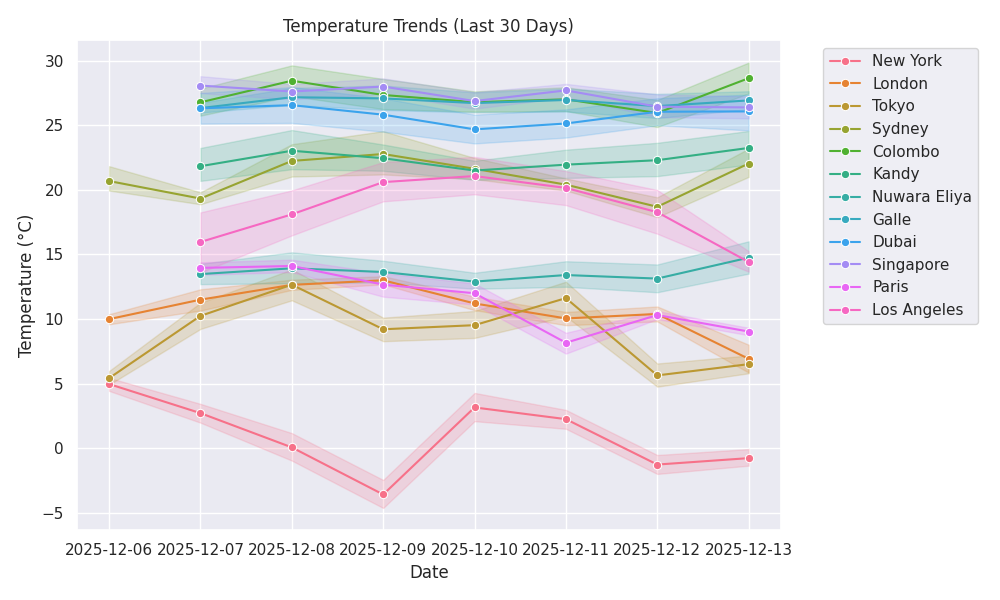
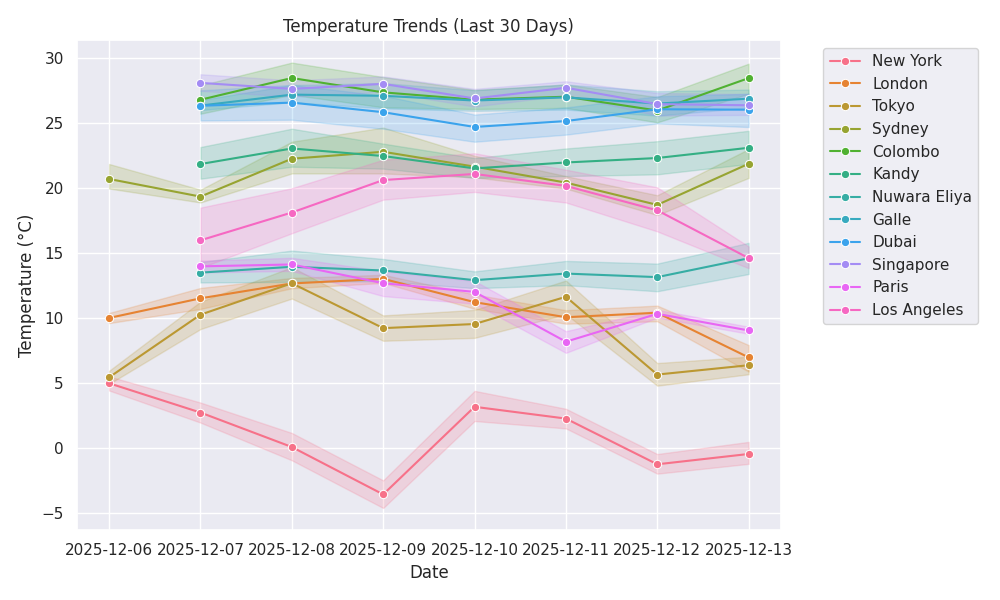
🌦 Weather update: 2025-12-13 18:17

diff --git a/public/index.html b/public/index.html
@@ -11,7 +11,7 @@
     <div class="max-w-6xl mx-auto">
         <header class="mb-8 text-center">
             <h1 class="text-4xl font-bold mb-2">🌍 Global Weather Dashboard</h1>
-            <p class="text-slate-400">Last Updated: 2025-12-13 17:11:00</p>
+            <p class="text-slate-400">Last Updated: 2025-12-13 18:17:11</p>
         </header>
         
         <!-- AI Summary -->
@@ -29,12 +29,12 @@
                     <span class="text-3xl">🌫</span>
                 </div>
                 <div class="mt-4">
-                    <p class="text-4xl font-bold">8.85°C</p>
+                    <p class="text-4xl font-bold">9.0°C</p>
                     <p class="text-slate-400 capitalize">mist</p>
                 </div>
                 <div class="mt-4 text-sm text-slate-500">
-                    <p>💧 Humidity: 97%</p>
-                    <p>💨 Wind: 2.57 m/s</p>
+                    <p>💧 Humidity: 95%</p>
+                    <p>💨 Wind: 1.54 m/s</p>
                 </div>
             </div>
             
@@ -44,12 +44,12 @@
                     <span class="text-3xl">☁</span>
                 </div>
                 <div class="mt-4">
-                    <p class="text-4xl font-bold">8.07°C</p>
+                    <p class="text-4xl font-bold">7.55°C</p>
                     <p class="text-slate-400 capitalize">broken clouds</p>
                 </div>
                 <div class="mt-4 text-sm text-slate-500">
-                    <p>💧 Humidity: 83%</p>
-                    <p>💨 Wind: 2.06 m/s</p>
+                    <p>💧 Humidity: 87%</p>
+                    <p>💨 Wind: 2.24 m/s</p>
                 </div>
             </div>
             
@@ -59,12 +59,12 @@
                     <span class="text-3xl">🌧</span>
                 </div>
                 <div class="mt-4">
-                    <p class="text-4xl font-bold">18.89°C</p>
+                    <p class="text-4xl font-bold">18.72°C</p>
                     <p class="text-slate-400 capitalize">light rain</p>
                 </div>
                 <div class="mt-4 text-sm text-slate-500">
                     <p>💧 Humidity: 93%</p>
-                    <p>💨 Wind: 3.09 m/s</p>
+                    <p>💨 Wind: 2.57 m/s</p>
                 </div>
             </div>
             
@@ -79,7 +79,7 @@
                 </div>
                 <div class="mt-4 text-sm text-slate-500">
                     <p>💧 Humidity: 86%</p>
-                    <p>💨 Wind: 2.57 m/s</p>
+                    <p>💨 Wind: 3.6 m/s</p>
                 </div>
             </div>
             
@@ -89,12 +89,12 @@
                     <span class="text-3xl">☀</span>
                 </div>
                 <div class="mt-4">
-                    <p class="text-4xl font-bold">26.96°C</p>
+                    <p class="text-4xl font-bold">24.96°C</p>
                     <p class="text-slate-400 capitalize">clear sky</p>
                 </div>
                 <div class="mt-4 text-sm text-slate-500">
-                    <p>💧 Humidity: 50%</p>
-                    <p>💨 Wind: 2.06 m/s</p>
+                    <p>💧 Humidity: 53%</p>
+                    <p>💨 Wind: 3.6 m/s</p>
                 </div>
             </div>
             
@@ -104,12 +104,12 @@
                     <span class="text-3xl">☁</span>
                 </div>
                 <div class="mt-4">
-                    <p class="text-4xl font-bold">11.59°C</p>
+                    <p class="text-4xl font-bold">11.73°C</p>
                     <p class="text-slate-400 capitalize">overcast clouds</p>
                 </div>
                 <div class="mt-4 text-sm text-slate-500">
-                    <p>💧 Humidity: 98%</p>
-                    <p>💨 Wind: 1.45 m/s</p>
+                    <p>💧 Humidity: 97%</p>
+                    <p>💨 Wind: 1.66 m/s</p>
                 </div>
             </div>
             
@@ -120,11 +120,11 @@
                 </div>
                 <div class="mt-4">
                     <p class="text-4xl font-bold">25.72°C</p>
-                    <p class="text-slate-400 capitalize">broken clouds</p>
+                    <p class="text-slate-400 capitalize">overcast clouds</p>
                 </div>
                 <div class="mt-4 text-sm text-slate-500">
                     <p>💧 Humidity: 82%</p>
-                    <p>💨 Wind: 3.41 m/s</p>
+                    <p>💨 Wind: 2.77 m/s</p>
                 </div>
             </div>
             
@@ -134,12 +134,12 @@
                     <span class="text-3xl">☁</span>
                 </div>
                 <div class="mt-4">
-                    <p class="text-4xl font-bold">20.16°C</p>
+                    <p class="text-4xl font-bold">20.31°C</p>
                     <p class="text-slate-400 capitalize">broken clouds</p>
                 </div>
                 <div class="mt-4 text-sm text-slate-500">
                     <p>💧 Humidity: 99%</p>
-                    <p>💨 Wind: 1.81 m/s</p>
+                    <p>💨 Wind: 1.66 m/s</p>
                 </div>
             </div>
             
@@ -149,12 +149,12 @@
                     <span class="text-3xl">☁</span>
                 </div>
                 <div class="mt-4">
-                    <p class="text-4xl font-bold">25.58°C</p>
-                    <p class="text-slate-400 capitalize">few clouds</p>
+                    <p class="text-4xl font-bold">25.02°C</p>
+                    <p class="text-slate-400 capitalize">scattered clouds</p>
                 </div>
                 <div class="mt-4 text-sm text-slate-500">
-                    <p>💧 Humidity: 84%</p>
-                    <p>💨 Wind: 7.98 m/s</p>
+                    <p>💧 Humidity: 86%</p>
+                    <p>💨 Wind: 7.19 m/s</p>
                 </div>
             </div>
             
@@ -164,8 +164,8 @@
                     <span class="text-3xl">☁</span>
                 </div>
                 <div class="mt-4">
-                    <p class="text-4xl font-bold">3.04°C</p>
-                    <p class="text-slate-400 capitalize">overcast clouds</p>
+                    <p class="text-4xl font-bold">4.55°C</p>
+                    <p class="text-slate-400 capitalize">broken clouds</p>
                 </div>
                 <div class="mt-4 text-sm text-slate-500">
                     <p>💧 Humidity: 60%</p>
@@ -176,14 +176,14 @@
             <div class="bg-slate-800 p-6 rounded-xl shadow-lg border-t-4 border-blue-500 hover:scale-105 transition-transform">
                 <div class="flex justify-between items-start">
                     <h3 class="text-xl font-bold">Tokyo</h3>
-                    <span class="text-3xl">🌧</span>
+                    <span class="text-3xl">🌫</span>
                 </div>
                 <div class="mt-4">
-                    <p class="text-4xl font-bold">3.96°C</p>
-                    <p class="text-slate-400 capitalize">light rain</p>
+                    <p class="text-4xl font-bold">3.79°C</p>
+                    <p class="text-slate-400 capitalize">mist</p>
                 </div>
                 <div class="mt-4 text-sm text-slate-500">
-                    <p>💧 Humidity: 85%</p>
+                    <p>💧 Humidity: 91%</p>
                     <p>💨 Wind: 7.2 m/s</p>
                 </div>
             </div>
@@ -194,12 +194,12 @@
                     <span class="text-3xl">🌫</span>
                 </div>
                 <div class="mt-4">
-                    <p class="text-4xl font-bold">12.83°C</p>
+                    <p class="text-4xl font-bold">17.59°C</p>
                     <p class="text-slate-400 capitalize">mist</p>
                 </div>
                 <div class="mt-4 text-sm text-slate-500">
-                    <p>💧 Humidity: 93%</p>
-                    <p>💨 Wind: 1.54 m/s</p>
+                    <p>💧 Humidity: 74%</p>
+                    <p>💨 Wind: 2.06 m/s</p>
                 </div>
             </div>
             

diff --git a/README.md b/README.md
@@ -8,8 +8,8 @@
 
 ---
 
-## ⚡ Live Status (Updated: 2025-12-13 17:11 UTC)
-![Paris](https://img.shields.io/badge/Paris-8.85°C-blue) ![London](https://img.shields.io/badge/London-8.07°C-blue) ![Sydney](https://img.shields.io/badge/Sydney-18.89°C-green) ![Singapore](https://img.shields.io/badge/Singapore-25.83°C-orange) ![Dubai](https://img.shields.io/badge/Dubai-26.96°C-orange) ![Nuwara Eliya](https://img.shields.io/badge/Nuwara%20Eliya-11.59°C-blue) ![Galle](https://img.shields.io/badge/Galle-25.72°C-orange) ![Kandy](https://img.shields.io/badge/Kandy-20.16°C-green) ![Colombo](https://img.shields.io/badge/Colombo-25.58°C-orange) ![New York](https://img.shields.io/badge/New%20York-3.04°C-blue) ![Tokyo](https://img.shields.io/badge/Tokyo-3.96°C-blue) ![Los Angeles](https://img.shields.io/badge/Los%20Angeles-12.83°C-blue) 
+## ⚡ Live Status (Updated: 2025-12-13 18:17 UTC)
+![Paris](https://img.shields.io/badge/Paris-9.0°C-blue) ![London](https://img.shields.io/badge/London-7.55°C-blue) ![Sydney](https://img.shields.io/badge/Sydney-18.72°C-green) ![Singapore](https://img.shields.io/badge/Singapore-25.83°C-orange) ![Dubai](https://img.shields.io/badge/Dubai-24.96°C-green) ![Nuwara Eliya](https://img.shields.io/badge/Nuwara%20Eliya-11.73°C-blue) ![Galle](https://img.shields.io/badge/Galle-25.72°C-orange) ![Kandy](https://img.shields.io/badge/Kandy-20.31°C-green) ![Colombo](https://img.shields.io/badge/Colombo-25.02°C-orange) ![New York](https://img.shields.io/badge/New%20York-4.55°C-blue) ![Tokyo](https://img.shields.io/badge/Tokyo-3.79°C-blue) ![Los Angeles](https://img.shields.io/badge/Los%20Angeles-17.59°C-green) 
 
 <div align="center">
   <h3>🏆 Weather Records (Live)</h3>
@@ -19,8 +19,8 @@
         <td align="center">❄ <b>Coldest City</b></td>
     </tr>
     <tr>
-        <td align="center"><b>Dubai</b><br>26.96°C</td>
-        <td align="center"><b>New York</b><br>3.04°C</td>
+        <td align="center"><b>Singapore</b><br>25.83°C</td>
+        <td align="center"><b>Tokyo</b><br>3.79°C</td>
     </tr>
   </table>
 </div>
@@ -28,18 +28,18 @@
 ## 📊 Global Overview
 | 🌍 City | 🌡 Temp | 🌤 Condition | 💧 Humidity | 🌬 Wind |
 |---|---|---|---|---|
-| **Paris** | 8.85°C | mist | 🟦🟦🟦🟦⬜ 97% | 2.57 m/s |
-| **London** | 8.07°C | broken clouds | 🟦🟦🟦🟦⬜ 83% | 2.06 m/s |
-| **Sydney** | 18.89°C | light rain | 🟦🟦🟦🟦⬜ 93% | 3.09 m/s |
-| **Singapore** | 25.83°C | broken clouds | 🟦🟦🟦🟦⬜ 86% | 2.57 m/s |
-| **Dubai** | 26.96°C | clear sky | 🟦🟦⬜⬜⬜ 50% | 2.06 m/s |
-| **Nuwara Eliya** | 11.59°C | overcast clouds | 🟦🟦🟦🟦⬜ 98% | 1.45 m/s |
-| **Galle** | 25.72°C | broken clouds | 🟦🟦🟦🟦⬜ 82% | 3.41 m/s |
-| **Kandy** | 20.16°C | broken clouds | 🟦🟦🟦🟦⬜ 99% | 1.81 m/s |
-| **Colombo** | 25.58°C | few clouds | 🟦🟦🟦🟦⬜ 84% | 7.98 m/s |
-| **New York** | 3.04°C | overcast clouds | 🟦🟦🟦⬜⬜ 60% | 5.14 m/s |
-| **Tokyo** | 3.96°C | light rain | 🟦🟦🟦🟦⬜ 85% | 7.2 m/s |
-| **Los Angeles** | 12.83°C | mist | 🟦🟦🟦🟦⬜ 93% | 1.54 m/s |
+| **Paris** | 9.0°C | mist | 🟦🟦🟦🟦⬜ 95% | 1.54 m/s |
+| **London** | 7.55°C | broken clouds | 🟦🟦🟦🟦⬜ 87% | 2.24 m/s |
+| **Sydney** | 18.72°C | light rain | 🟦🟦🟦🟦⬜ 93% | 2.57 m/s |
+| **Singapore** | 25.83°C | broken clouds | 🟦🟦🟦🟦⬜ 86% | 3.6 m/s |
+| **Dubai** | 24.96°C | clear sky | 🟦🟦⬜⬜⬜ 53% | 3.6 m/s |
+| **Nuwara Eliya** | 11.73°C | overcast clouds | 🟦🟦🟦🟦⬜ 97% | 1.66 m/s |
+| **Galle** | 25.72°C | overcast clouds | 🟦🟦🟦🟦⬜ 82% | 2.77 m/s |
+| **Kandy** | 20.31°C | broken clouds | 🟦🟦🟦🟦⬜ 99% | 1.66 m/s |
+| **Colombo** | 25.02°C | scattered clouds | 🟦🟦🟦🟦⬜ 86% | 7.19 m/s |
+| **New York** | 4.55°C | broken clouds | 🟦🟦🟦⬜⬜ 60% | 5.14 m/s |
+| **Tokyo** | 3.79°C | mist | 🟦🟦🟦🟦⬜ 91% | 7.2 m/s |
+| **Los Angeles** | 17.59°C | mist | 🟦🟦🟦⬜⬜ 74% | 2.06 m/s |
 
 
 ## 📈 Temperature Trends
